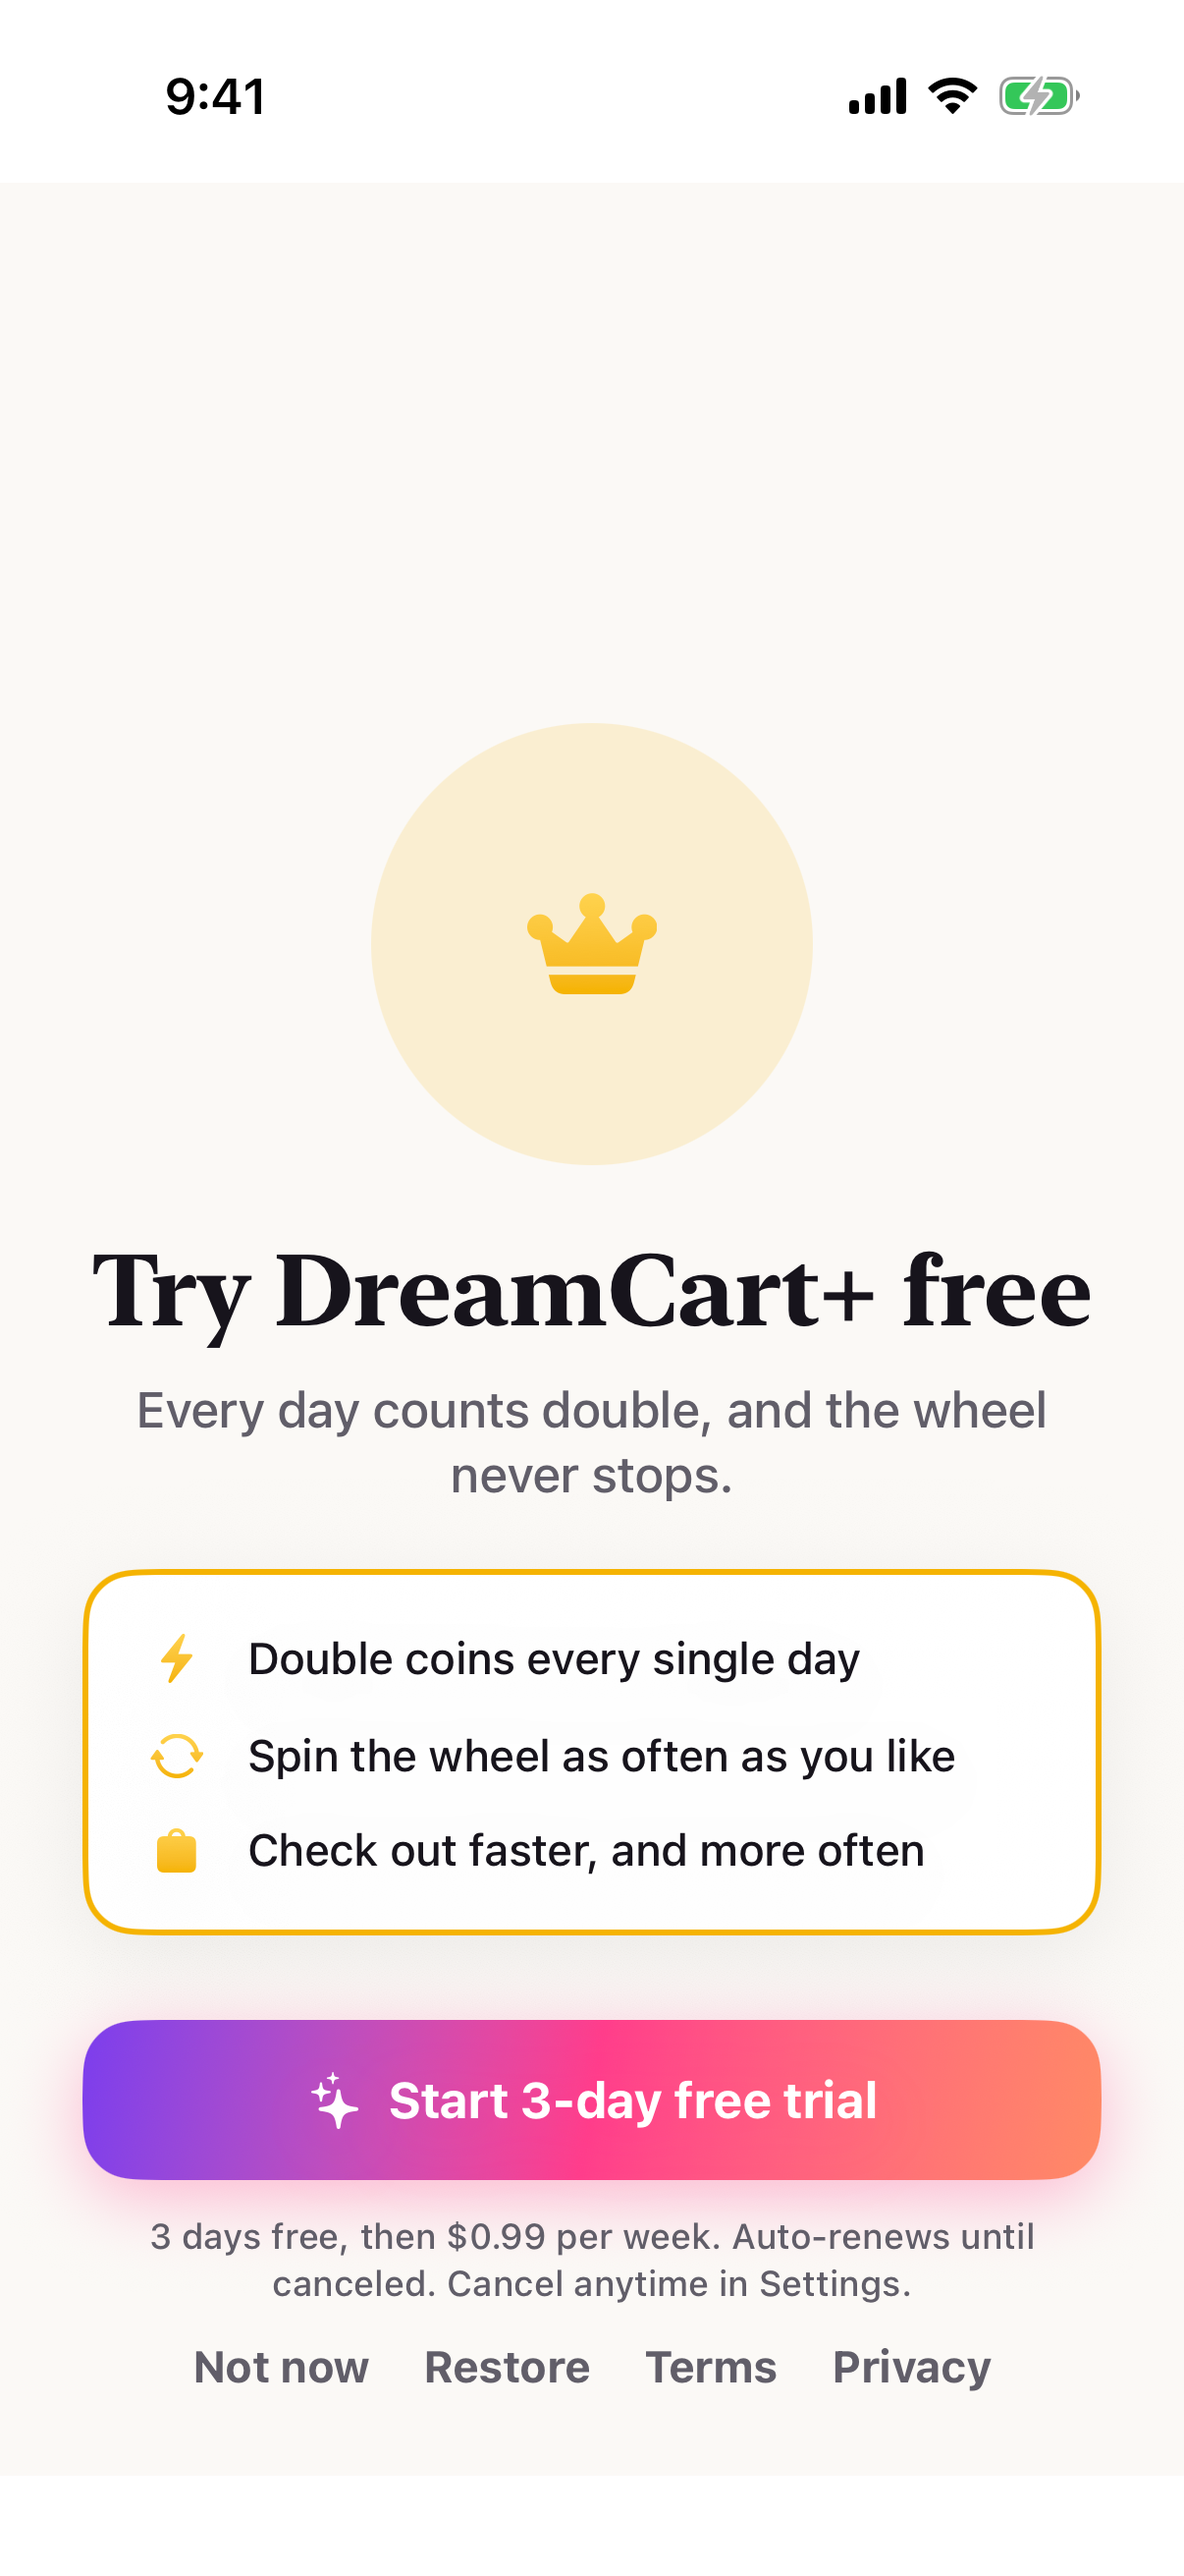
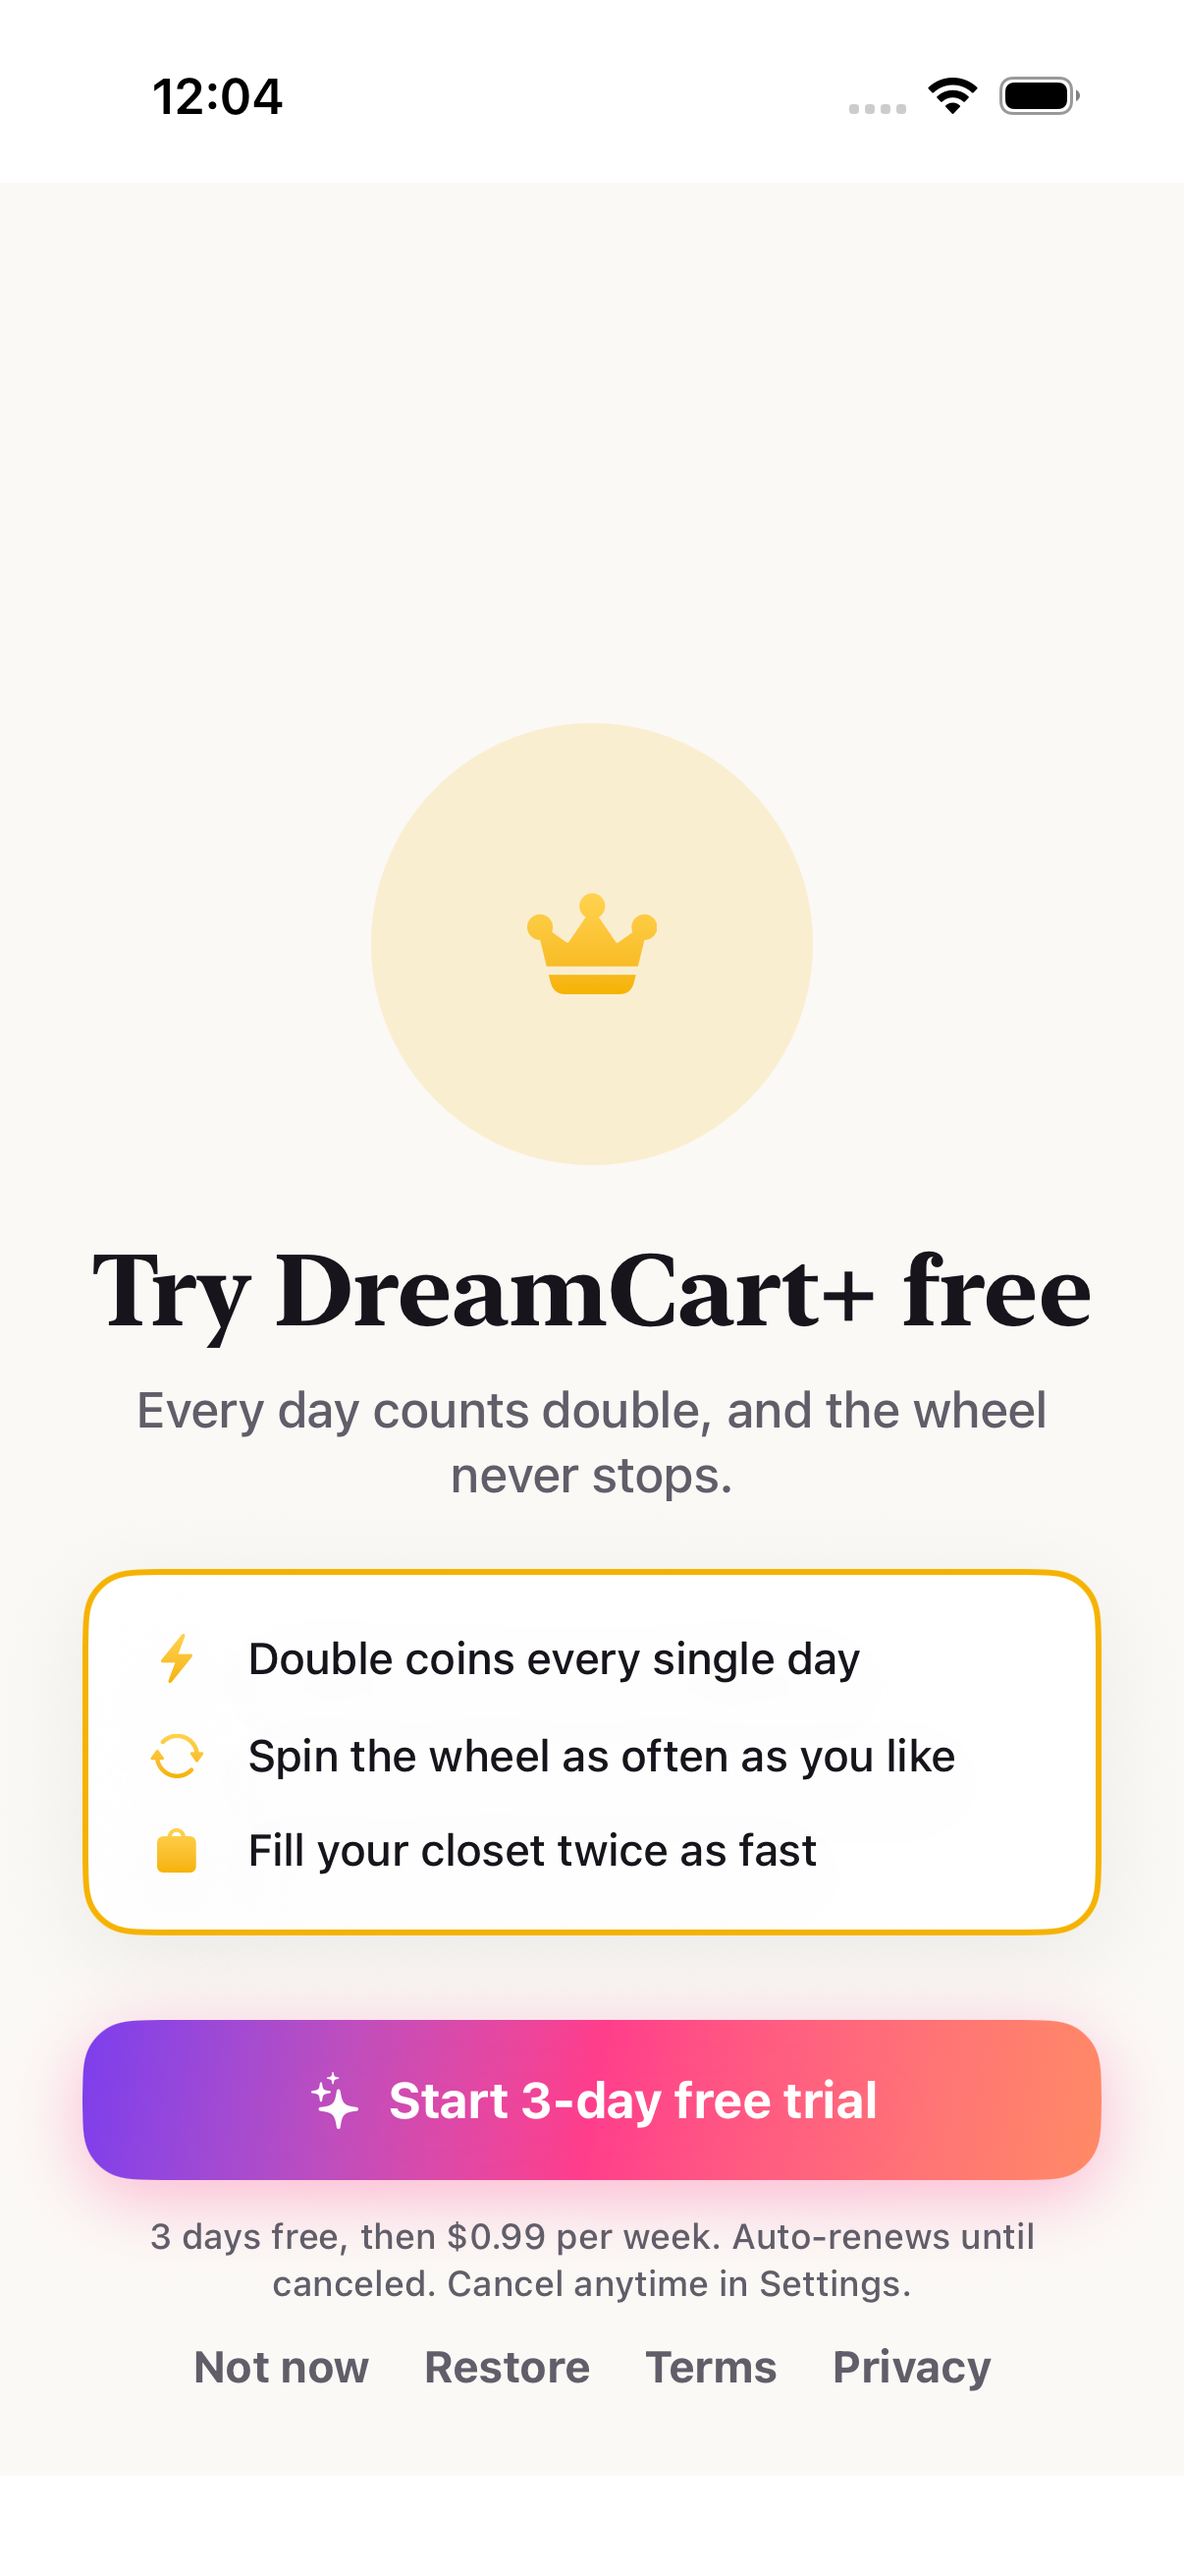
fix: drop a membership perk the backend never grants
The paywall promised faster checkout. is_plus doubles the claim_daily
grant and lifts the once-a-day spin limit; nothing touches checkout. A
closet filling twice as fast is what those two actually add up to, and
it is the claim a reviewer can verify.

diff --git a/DreamCart/Views/PlusOfferView.swift b/DreamCart/Views/PlusOfferView.swift
@@ -170,7 +170,11 @@ struct PlusOfferView: View {
         VStack(alignment: .leading, spacing: 14) {
             perk("bolt.fill", "Double coins every single day")
             perk("arrow.triangle.2.circlepath", "Spin the wheel as often as you like")
-            perk("bag.fill", "Check out faster, and more often")
+            // Only claim what `profiles.is_plus` actually grants. Nothing in the
+            // backend makes checkout faster; the double grant and the unlimited
+            // spin are the whole membership, and a closet filling twice as fast
+            // is what they add up to.
+            perk("bag.fill", "Fill your closet twice as fast")
         }
         .frame(maxWidth: .infinity, alignment: .leading)
         .padding(20)
